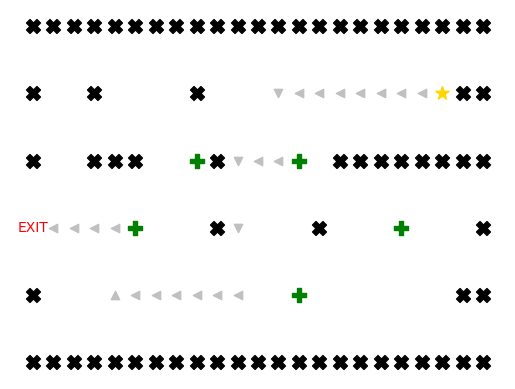
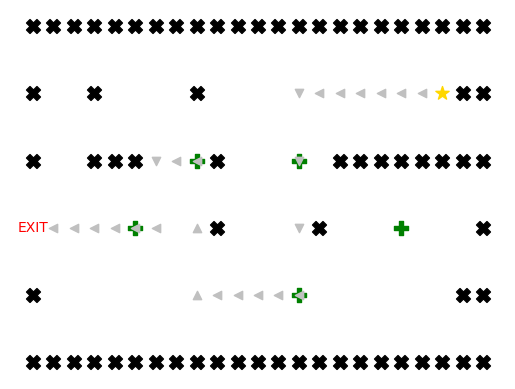
adjust bonus_astar

diff --git a/ai_pygame.py b/ai_pygame.py
@@ -412,103 +412,170 @@ def BFS_teleport(a, start, goal):
   if trace[goal[0]][goal[1]] == None: return None
   return createPath(trace, start, goal), op
 
-def Heuristic_Bonus(current_node, goal):
-    x1,y1 = current_node
-    x2,y2 = goal
-    return abs(x1-x2)+abs(y1-y2)
+# def Heuristic_Bonus(current_node, goal):
+#     x1,y1 = current_node
+#     x2,y2 = goal
+#     return abs(x1-x2)+abs(y1-y2)
 
-def Is_Middle(graph, a,b,c):
-    if a[0]==0 or a[0]==len(graph):
-        if abs(a[0]-b[0]) < abs(a[0]-c[0]):
-            return 1
-    if a[1]==0 or a[1] == len(graph[0]):
-        if abs(a[1]-b[1]) < abs(a[1]-c[1]):
-            return 1
-    return 0
+# def Is_Middle(graph, a,b,c):
+#     if a[0]==0 or a[0]==len(graph):
+#         if abs(a[0]-b[0]) < abs(a[0]-c[0]):
+#             return 1
+#     if a[1]==0 or a[1] == len(graph[0]):
+#         if abs(a[1]-b[1]) < abs(a[1]-c[1]):
+#             return 1
+#     return 0
 
-def Check_Bonus(a, bonus_points, u, end):
-    Min = 0
-    Min_i = None
-    for i in bonus_points:
-        tmp = Heuristic_Bonus(u,(i[0],i[1]))
-        tmp1 = Heuristic_Bonus(u,end)
-        tmp2 = Heuristic_Bonus((i[0],i[1]),end)
-        if Is_Middle(a, end, u, i) == 1:
-            if tmp*2 < abs(i[2]):
-                if Min < abs(i[2])-tmp*2:
-                    Min = abs(i[2])-tmp*2
-                    Min_i=i
-        else:
-            if tmp1>tmp2:
-                if tmp<=abs(i[2]):
-                    if Min < abs(i[2]) - tmp:
-                        Min = abs(i[2]) - tmp
-                        Min_i=i
-            else:
-                if abs(tmp1-tmp2)+tmp < abs(i[2]):
-                    if Min < abs(i[2])- abs(tmp1-tmp2) - tmp:
-                        Min = abs(i[2])- abs(tmp1-tmp2) - tmp
-                        Min_i=i
-    return Min_i
+# def Check_Bonus(a, bonus_points, u, end):
+#     Min = 0
+#     Min_i = None
+#     for i in bonus_points:
+#         tmp = Heuristic_Bonus(u,(i[0],i[1]))
+#         tmp1 = Heuristic_Bonus(u,end)
+#         tmp2 = Heuristic_Bonus((i[0],i[1]),end)
+#         if Is_Middle(a, end, u, i) == 1:
+#             if tmp*2 < abs(i[2]):
+#                 if Min < abs(i[2])-tmp*2:
+#                     Min = abs(i[2])-tmp*2
+#                     Min_i=i
+#         else:
+#             if tmp1>tmp2:
+#                 if tmp<=abs(i[2]):
+#                     if Min < abs(i[2]) - tmp:
+#                         Min = abs(i[2]) - tmp
+#                         Min_i=i
+#             else:
+#                 if abs(tmp1-tmp2)+tmp < abs(i[2]):
+#                     if Min < abs(i[2])- abs(tmp1-tmp2) - tmp:
+#                         Min = abs(i[2])- abs(tmp1-tmp2) - tmp
+#                         Min_i=i
+#     return Min_i
 
-def Get_Bonus(new_node, bonus_points):
-    for i in bonus_points:
-        if (i[0],i[1]) == new_node:
-            return i[2]
+# def Get_Bonus(new_node, bonus_points):
+#     for i in bonus_points:
+#         if (i[0],i[1]) == new_node:
+#             return i[2]
 
-def a_star(graph, start, end, bonus_points):
-    distances = {(start[0], start[1]): 0}
-    trace = {start:None}
-    visited = set()
-    goal = []
-    goal.append(end)
-    open=[]
+# def a_star(graph, start, end, bonus_points):
+#     distances = {(start[0], start[1]): 0}
+#     trace = {start:None}
+#     visited = set()
+#     goal = []
+#     goal.append(end)
+#     open=[]
 
 
-    pq = PriorityQueue()
-    pq.put((0, (start[0], start[1])))
+#     pq = PriorityQueue()
+#     pq.put((0, (start[0], start[1])))
 
-    while not pq.empty():
-        _, node = pq.get()
-        cur_row, cur_col = node
-        if node == (goal[0][0],goal[0][1]):
-            goal.pop(0)
-        if goal==[]:
-            break
+#     while not pq.empty():
+#         _, node = pq.get()
+#         cur_row, cur_col = node
+#         if node == (goal[0][0],goal[0][1]):
+#             goal.pop(0)
+#         if goal==[]:
+#             break
         
-        tmp_goal = Check_Bonus(graph, bonus_points, node, goal[0])
-        if tmp_goal!=None:
-            goal.insert(0, (tmp_goal[0],tmp_goal[1]))
+#         tmp_goal = Check_Bonus(graph, bonus_points, node, goal[0])
+#         if tmp_goal!=None:
+#             goal.insert(0, (tmp_goal[0],tmp_goal[1]))
 
-        for i in range(0,4):
-            new_node = (cur_row + row[i], cur_col + col[i])
+#         for i in range(0,4):
+#             new_node = (cur_row + row[i], cur_col + col[i])
             
-            if Is_Valid_Position(graph, new_node) and new_node not in visited:
-                old_distance = distances.get(new_node, float('inf'))
-                if (graph[new_node[0]][new_node[1]]=='+'):
-                    new_distance = distances[node] + weight + Get_Bonus(new_node, bonus_points)
-                else:
-                    new_distance = distances[node] + weight
-                open.append(new_node)
+#             if Is_Valid_Position(graph, new_node) and new_node not in visited:
+#                 old_distance = distances.get(new_node, float('inf'))
+#                 if (graph[new_node[0]][new_node[1]]=='+'):
+#                     new_distance = distances[node] + weight + Get_Bonus(new_node, bonus_points)
+#                 else:
+#                     new_distance = distances[node] + weight
+#                 open.append(new_node)
                 
-                if new_distance < old_distance:
-                    distances[new_node] = new_distance
-                    priority = new_distance + Heuristic_Bonus(new_node, goal[0])
-                    pq.put((priority, new_node))
-                    trace[new_node] = node
+#                 if new_distance < old_distance:
+#                     distances[new_node] = new_distance
+#                     priority = new_distance + Heuristic_Bonus(new_node, goal[0])
+#                     pq.put((priority, new_node))
+#                     trace[new_node] = node
         
-        visited.add(node)
+#         visited.add(node)
 
-    path = []
-    f = end
-    while trace[f] != None:
-        path.append(trace[f])
-        f = trace[f]
+#     path = []
+#     f = end
+#     while trace[f] != None:
+#         path.append(trace[f])
+#         f = trace[f]
         
-    path.reverse()
-    path.append(end)
-    return path, open
+#     path.reverse()
+#     path.append(end)
+#     return path, open
+def nearest_bonus_point(u, bonus_points):
+    res = None
+    for v in bonus_points:
+        d = abs(u[0] - v[0]) + abs(u[1] - v[1])
+        res = d if res is None else min(res, d)
+    return res
 
+def bonus_astar(matrix, bonus_points, start, goal):
+    r_size, c_size = len(matrix), len(matrix[0])
+    d = [[2 * oo for i in range(c_size)] for j in range(r_size)]
+    trace = [[None for i in range(c_size)] for j in range(r_size)]
+    d[start[0]][start[1]] = 0
+    op = []
+    PQ = PriorityQueue(len(matrix) * len(matrix[0]))
+    PQ.put((0, start))
+    while not PQ.empty():
+        _, u = PQ.get()
+        if (u == goal):
+            break
+        for k in range(4):
+            v = (u[0] + row[k], u[1] + col[k])
+            if v[0] < 0 or v[0] > r_size or v[1] < 0 or v[1] > c_size:
+                continue
+            if matrix[v[0]][v[1]] == 'x' or matrix[v[0]][v[1]] == 'S' or trace[v[0]][v[1]] != None: 
+                continue
+            w = 1 if matrix[v[0]][v[1]] == ' ' else matrix[v[0]][v[1]]
+            f = d[u[0]][u[1]] + w + abs(goal[0] - v[0]) + abs(goal[1] - v[1]) + nearest_bonus_point(v, bonus_points)
+            if d[v[0]][v[1]] > f:
+                trace[v[0]][v[1]] = u
+                d[v[0]][v[1]] = d[u[0]][u[1]] + w
+                PQ.put((f, v))
+                op.append(v)
+    if trace[goal[0]][goal[1]] == None: return None, op
+    return createPath(trace, start, goal), op
+
+def greedyValue(u, bonus_points):
+    res, p = None, None
+    for v in bonus_points:
+        d = abs(u[0] - v[0]) + abs(u[1] - v[1])
+        if res is None:
+            res, p = d, v
+        elif res > d:
+            res, p = d, v
+    return res, p
+
+def bonus_GBFS(matrix, bonus_points, start, goal):
+    r_size, c_size = len(matrix), len(matrix[0])
+    trace = [[None for i in range(c_size)] for j in range(r_size)]
+    op = []
+    PQ = PriorityQueue(len(matrix) * len(matrix[0]))
+    PQ.put((0, start))
+    while not PQ.empty():
+        _, u = PQ.get()
+        if (u == goal):
+            break
+        for k in range(4):
+            v = (u[0] + row[k], u[1] + col[k])
+            if v[0] < 0 or v[0] > r_size or v[1] < 0 or v[1] > c_size:
+                continue
+            if matrix[v[0]][v[1]] == 'x' or matrix[v[0]][v[1]] == 'S' or trace[v[0]][v[1]] != None: 
+                continue
+            trace[v[0]][v[1]] = u
+            g, w = greedyValue(v, bonus_points)
+            f = g + matrix[w[0]][w[1]]
+            PQ.put((f, v))
+            op.append(v)
+    if trace[goal[0]][goal[1]] == None: return None, op
+    return createPath(trace, start, goal), op
 class Board:
     def _init_(self):
         self.board = []

diff --git a/main.py b/main.py
@@ -95,7 +95,7 @@ def level_2(maps):
                         goal = (i,j)
                 else:
                     continue 
-        wayout, open = ap.a_star(matrix, start, goal, bonus_points)
+        wayout, open = ap.bonus_astar(matrix, bonus_points, start, goal)
         ap.visualize_maze(matrix, bonus_points, portals, start, goal, wayout, f'output\\level_2\\input{mapID}\\output{mapID}')
 
         mapID += 1
